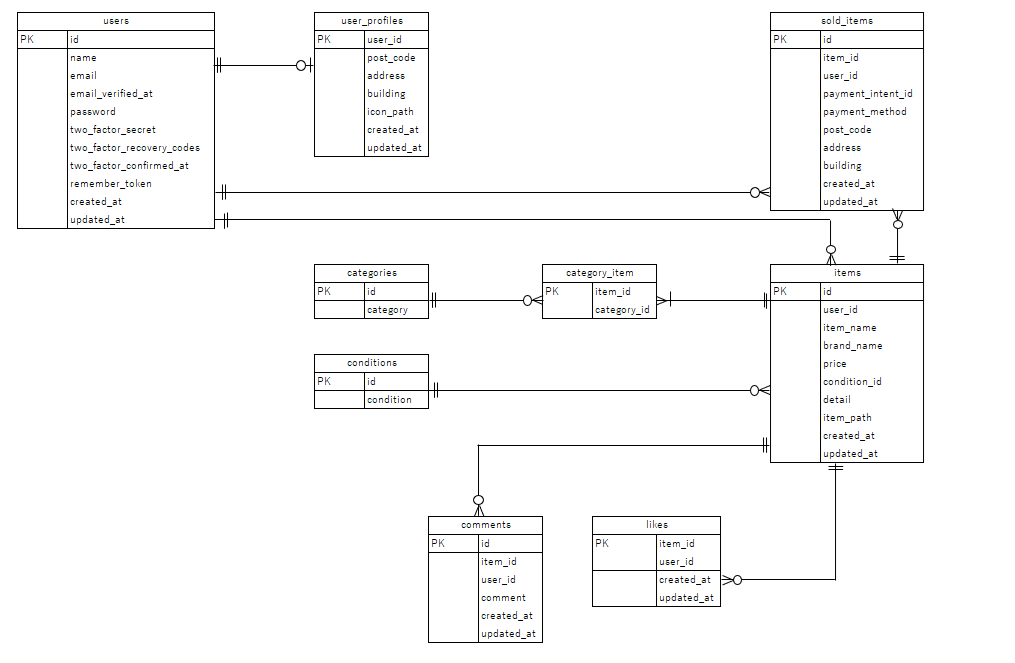
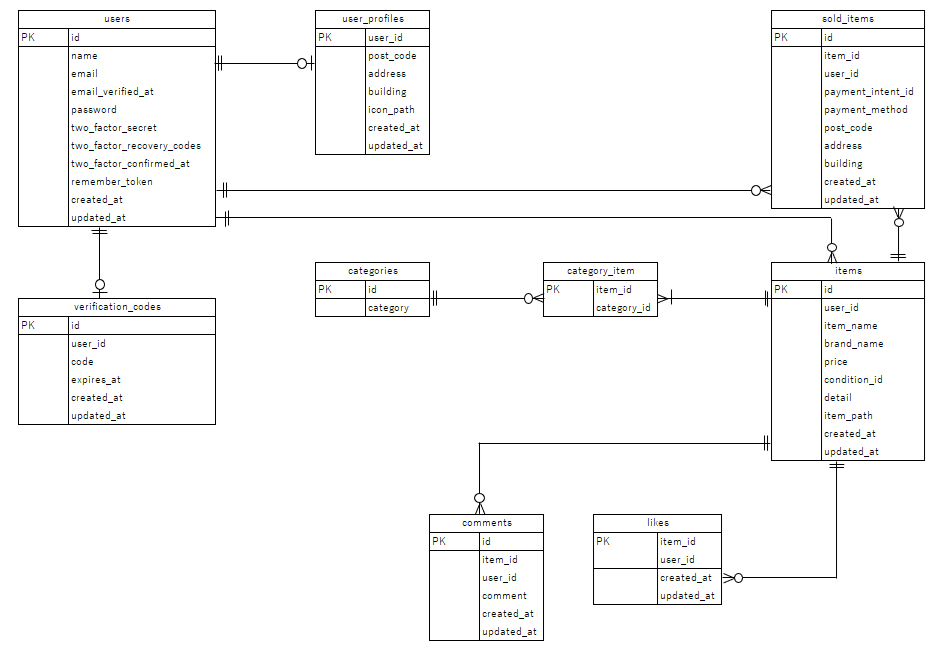
メール認証追加

diff --git a/src/public/css/common.css b/src/public/css/common.css
@@ -71,9 +71,27 @@
     color: #000;
 }
 
+.button_gray {
+    margin: 0 auto;
+    background: #d9d9d9;
+    color: #000;
+    border: 1px solid #000;
+    border-radius: 3px;
+}
+
 .button_blue {
+    display: inline-block;
     background: #fff;
     color: #0174cc;
+    text-decoration: none;
+    margin-top: 10px;
+    font-size: 16px;
+    cursor: pointer;
+}
+
+button.button_blue {
+    border: none;
+    background-color: #fff;
 }
 
 .button_red_square {
@@ -84,7 +102,6 @@
     border-radius: 3px;
     cursor: pointer;
 }
-
 
 .button_submit {
     width: 100%;
@@ -188,6 +205,6 @@ input[type="password"] {
 
 /* aタグ */
 .no-link {
-  text-decoration: none;
-  color: inherit;
+    text-decoration: none;
+    color: inherit;
 }

diff --git a/src/app/Http/Controllers/VerificationController.php b/src/app/Http/Controllers/VerificationController.php
@@ -1,0 +1,56 @@
+<?php
+
+namespace App\Http\Controllers;
+
+use Illuminate\Http\Request;
+use Illuminate\Support\Facades\Auth;
+use App\Models\VerificationCode;
+use Illuminate\Support\Facades\Mail;
+use App\Mail\VerificationCodeMail;
+
+class VerificationController extends Controller
+{
+    public function verify(Request $request)
+    {
+        $request->validate([
+            'code' => 'required|digits:4'
+        ]);
+
+        $user = Auth::user();
+
+        $record = VerificationCode::where('user_id', $user->id)
+            ->where('code', $request->code)
+            ->where('expires_at', '>', now())
+            ->first();
+
+        if (!$record) {
+            return back()->withErrors(['code' => '認証コードが正しくないか、入力期限が切れています。']);
+        }
+
+        $record->delete();
+
+        return redirect('/mypage/profile');
+    }
+
+    public function resend()
+    {
+        $user = Auth::user();
+
+        // 既存コード削除
+        VerificationCode::where('user_id', $user->id)->delete();
+
+        // 新しいコード生成
+        $code = rand(1000, 9999);
+
+        VerificationCode::create([
+            'user_id' => $user->id,
+            'code' => $code,
+            'expires_at' => now()->addMinutes(5),
+        ]);
+
+        // メール送信
+        Mail::to($user->email)->send(new VerificationCodeMail($code));
+
+        return back()->with('message', '認証メールを再送しました');
+    }
+}

diff --git a/src/resources/views/auth/verify-code.blade.php b/src/resources/views/auth/verify-code.blade.php
@@ -1,0 +1,38 @@
+@extends('layouts.common')
+
+@section('show-center', 'false')
+@section('show-right', 'false')
+
+@section('title')
+メール認証画面
+@endsection
+
+@section('main')
+<div class="content">
+    <div class="content-form">
+        <form class="form" method="POST" action="/verify-code">
+            @csrf
+
+            <div class="form__group">
+                <div class="form__group-title">
+                    認証コード
+                </div>
+                <div class="form__group-content">
+                    <div class="form__input--text">
+                        <input type="text" name="code" maxlength="4">
+                    </div>
+                    @error('code')
+                    <ul class="form-error">
+                        <li>{{ $message }}</li>
+                    </ul>
+                    @enderror
+                </div>
+            </div>
+
+            <div class="form-button">
+                <button class="button button_submit" type="submit">認証する</button>
+            </div>
+        </form>
+    </div>
+</div>
+@endsection

diff --git a/src/app/Http/Requests/RegisterRequest.php b/src/app/Http/Requests/RegisterRequest.php
@@ -15,7 +15,7 @@ class RegisterRequest extends FormRequest
     {
         return [
             'name' => ['required', 'string', 'max:20'],
-            'email' => ['required', 'string', 'email', 'max:255'],
+            'email' => ['required', 'string', 'email', 'max:255', 'unique:users,email'],
             'password' => ['required', 'string', 'min:8', 'max:255', 'confirmed'],
         ];
     }
@@ -27,6 +27,7 @@ class RegisterRequest extends FormRequest
             'name.max' => 'お名前は20文字以内で入力してください',
             'email.required' => 'メールアドレスを入力してください',
             'email.email' => 'メールアドレスはメール形式で入力してください',
+            'email.unique' => 'このメールアドレスは既に登録されています',
             'password.required' => 'パスワードを入力してください',
             'password.min' => 'パスワードは8文字以上で入力してください',
             'password.confirmed' => 'パスワードと一致しません',

diff --git a/src/app/Providers/FortifyServiceProvider.php b/src/app/Providers/FortifyServiceProvider.php
@@ -11,7 +11,6 @@ use Laravel\Fortify\Fortify;
 use Laravel\Fortify\Http\Requests\LoginRequest as FortifyLoginRequest;
 use App\Http\Requests\LoginRequest;
 use Laravel\Fortify\Contracts\RegisterResponse;
-use App\Http\Responses\RegisterResponse as CustomRegisterResponse;
 
 class FortifyServiceProvider extends ServiceProvider
 {
@@ -36,11 +35,13 @@ class FortifyServiceProvider extends ServiceProvider
         //登録画面処理（バリデーション・DB登録）
         Fortify::createUsersUsing(CreateNewUser::class);
 
-        //登録後、プロフィール設定画面に遷移
-        $this->app->singleton(
-            RegisterResponse::class,
-            CustomRegisterResponse::class
-        );
+        //登録後、認証画面へ
+        $this->app->instance(RegisterResponse::class, new class implements RegisterResponse {
+            public function toResponse($request)
+            {
+                return redirect('/email-sent');
+            }
+        });
 
 
         //「/login」でログイン画面を開く

diff --git a/src/app/Actions/Fortify/CreateNewUser.php b/src/app/Actions/Fortify/CreateNewUser.php
@@ -6,6 +6,9 @@ use App\Models\User;
 use Illuminate\Support\Facades\Hash;
 use Laravel\Fortify\Contracts\CreatesNewUsers;
 use App\Http\Requests\RegisterRequest;
+use App\Models\VerificationCode;
+use App\Mail\VerificationCodeMail;
+use Illuminate\Support\Facades\Mail;
 
 class CreateNewUser implements CreatesNewUsers
 {
@@ -21,10 +24,22 @@ class CreateNewUser implements CreatesNewUsers
         $request = app(RegisterRequest::class);
         $validated = $request->validated();
 
-        return User::create([
+        $user = User::create([
             'name'     => $validated['name'],
             'email'    => $validated['email'],
             'password' => Hash::make($validated['password']),
         ]);
+
+        $code = rand(1000, 9999);
+
+        VerificationCode::create([
+            'user_id' => $user->id,
+            'code' => $code,
+            'expires_at' => now()->addMinutes(5),
+        ]);
+
+        Mail::to($user->email)->send(new VerificationCodeMail($code));
+
+        return $user;
     }
 }

diff --git a/src/resources/views/auth/email-sent.blade.php b/src/resources/views/auth/email-sent.blade.php
@@ -1,0 +1,30 @@
+@extends('layouts.common')
+
+@section('show-center', 'false')
+@section('show-right', 'false')
+
+@section('title')
+メール認証誘導画面
+@endsection
+
+@section('main')
+<div class="content">
+    <div class="content-form">
+        <div class="form">
+            <p>登録していただいたメールアドレスに認証メールを送付しました。<br>メール認証を完了してください。</p>
+            <div class="form-button">
+                <a href="/verify-code" class="button button_gray">認証はこちらから</a>
+
+                <form method="POST" action="/resend-code">
+                    @csrf
+                    <button class="button_blue" type="submit">認証メールを再送する</button>
+                </form>
+
+                @if(session('message'))
+                <p style="color:green;">{{ session('message') }}</p>
+                @endif
+            </div>
+        </div>
+    </div>
+</div>
+@endsection

diff --git a/src/resources/lang/ja/validation.php b/src/resources/lang/ja/validation.php
@@ -96,7 +96,7 @@ return [
     'password'             => 'パスワードが正しくありません。',
     'present'              => ':attributeが存在している必要があります。',
     'regex'                => ':attributeには、有効な正規表現を指定してください。',
-    'required'             => ':attributeは、必ず指定してください。',
+    'required'             => ':attributeを入力してください',
     'required_if'          => ':otherが:valueの場合、:attributeを指定してください。',
     'required_unless'      => ':otherが:values以外の場合、:attributeを指定してください。',
     'required_with'        => ':valuesが指定されている場合、:attributeも指定してください。',
@@ -146,5 +146,7 @@ return [
     |
     */
 
-    'attributes' => [],
+    'attributes' => [
+        'code'    => '認証コード',
+    ],
 ];

diff --git a/src/routes/web.php b/src/routes/web.php
@@ -5,6 +5,7 @@ use App\Http\Controllers\ItemController;
 use App\Http\Controllers\SellController;
 use App\Http\Controllers\PurchaseController;
 use App\Http\Controllers\MypageController;
+use App\Http\Controllers\VerificationController;
 
 /*
 |--------------------------------------------------------------------------
@@ -16,6 +17,21 @@ use App\Http\Controllers\MypageController;
 | contains the "web" middleware group. Now create something great!
 |
 */
+
+Route::get('/email-sent', function () {
+    return view('auth.email-sent');
+});
+Route::post('/resend-code', [VerificationController::class, 'resend']);
+
+Route::get('/verify-code', function () {
+    return view('auth.verify-code');
+});
+
+Route::post('/verify-code', [VerificationController::class, 'verify']);
+
+
+
+
 
 Route::get('/', [ItemController::class, 'index']);
 

diff --git a/src/database/migrations/2026_02_11_141253_create_verification_codes_table.php b/src/database/migrations/2026_02_11_141253_create_verification_codes_table.php
@@ -1,0 +1,34 @@
+<?php
+
+use Illuminate\Database\Migrations\Migration;
+use Illuminate\Database\Schema\Blueprint;
+use Illuminate\Support\Facades\Schema;
+
+class CreateVerificationCodesTable extends Migration
+{
+    /**
+     * Run the migrations.
+     *
+     * @return void
+     */
+    public function up()
+    {
+        Schema::create('verification_codes', function (Blueprint $table) {
+            $table->id();
+            $table->unsignedBigInteger('user_id');
+            $table->string('code', 4);
+            $table->timestamp('expires_at');
+            $table->timestamps();
+        });
+    }
+
+    /**
+     * Reverse the migrations.
+     *
+     * @return void
+     */
+    public function down()
+    {
+        Schema::dropIfExists('verification_codes');
+    }
+}

diff --git a/src/app/Mail/VerificationCodeMail.php b/src/app/Mail/VerificationCodeMail.php
@@ -1,0 +1,35 @@
+<?php
+
+namespace App\Mail;
+
+use Illuminate\Bus\Queueable;
+use Illuminate\Contracts\Queue\ShouldQueue;
+use Illuminate\Mail\Mailable;
+use Illuminate\Queue\SerializesModels;
+
+class VerificationCodeMail extends Mailable
+{
+    use Queueable, SerializesModels;
+
+    public $code;
+
+    /**
+     * Create a new message instance.
+     *
+     * @return void
+     */
+    public function __construct($code)
+    {
+        $this->code = $code;
+    }
+
+    /**
+     * Build the message.
+     *
+     * @return $this
+     */
+    public function build()
+    {
+        return $this->subject('認証コード')->view('emails.verification');
+    }
+}

diff --git a/src/app/Http/Controllers/MypageController.php b/src/app/Http/Controllers/MypageController.php
@@ -5,6 +5,7 @@ namespace App\Http\Controllers;
 use App\Http\Requests\ProfileRequest;
 use Illuminate\Support\Facades\Auth;
 use Illuminate\Support\Facades\Storage;
+use App\Models\User;
 use App\Models\UserProfile;
 use App\Models\Item;
 use App\Models\SoldItem;
@@ -46,7 +47,9 @@ class MypageController extends Controller
         $user = auth()->user();
 
         //ユーザー名更新
-        $user->update($request->only(['name']));
+        User::where('id', $user->id)->update([
+            'name' => $request->name
+        ]);
 
         //プロフィール作成・更新
         $user_profile = UserProfile::firstOrNew([
